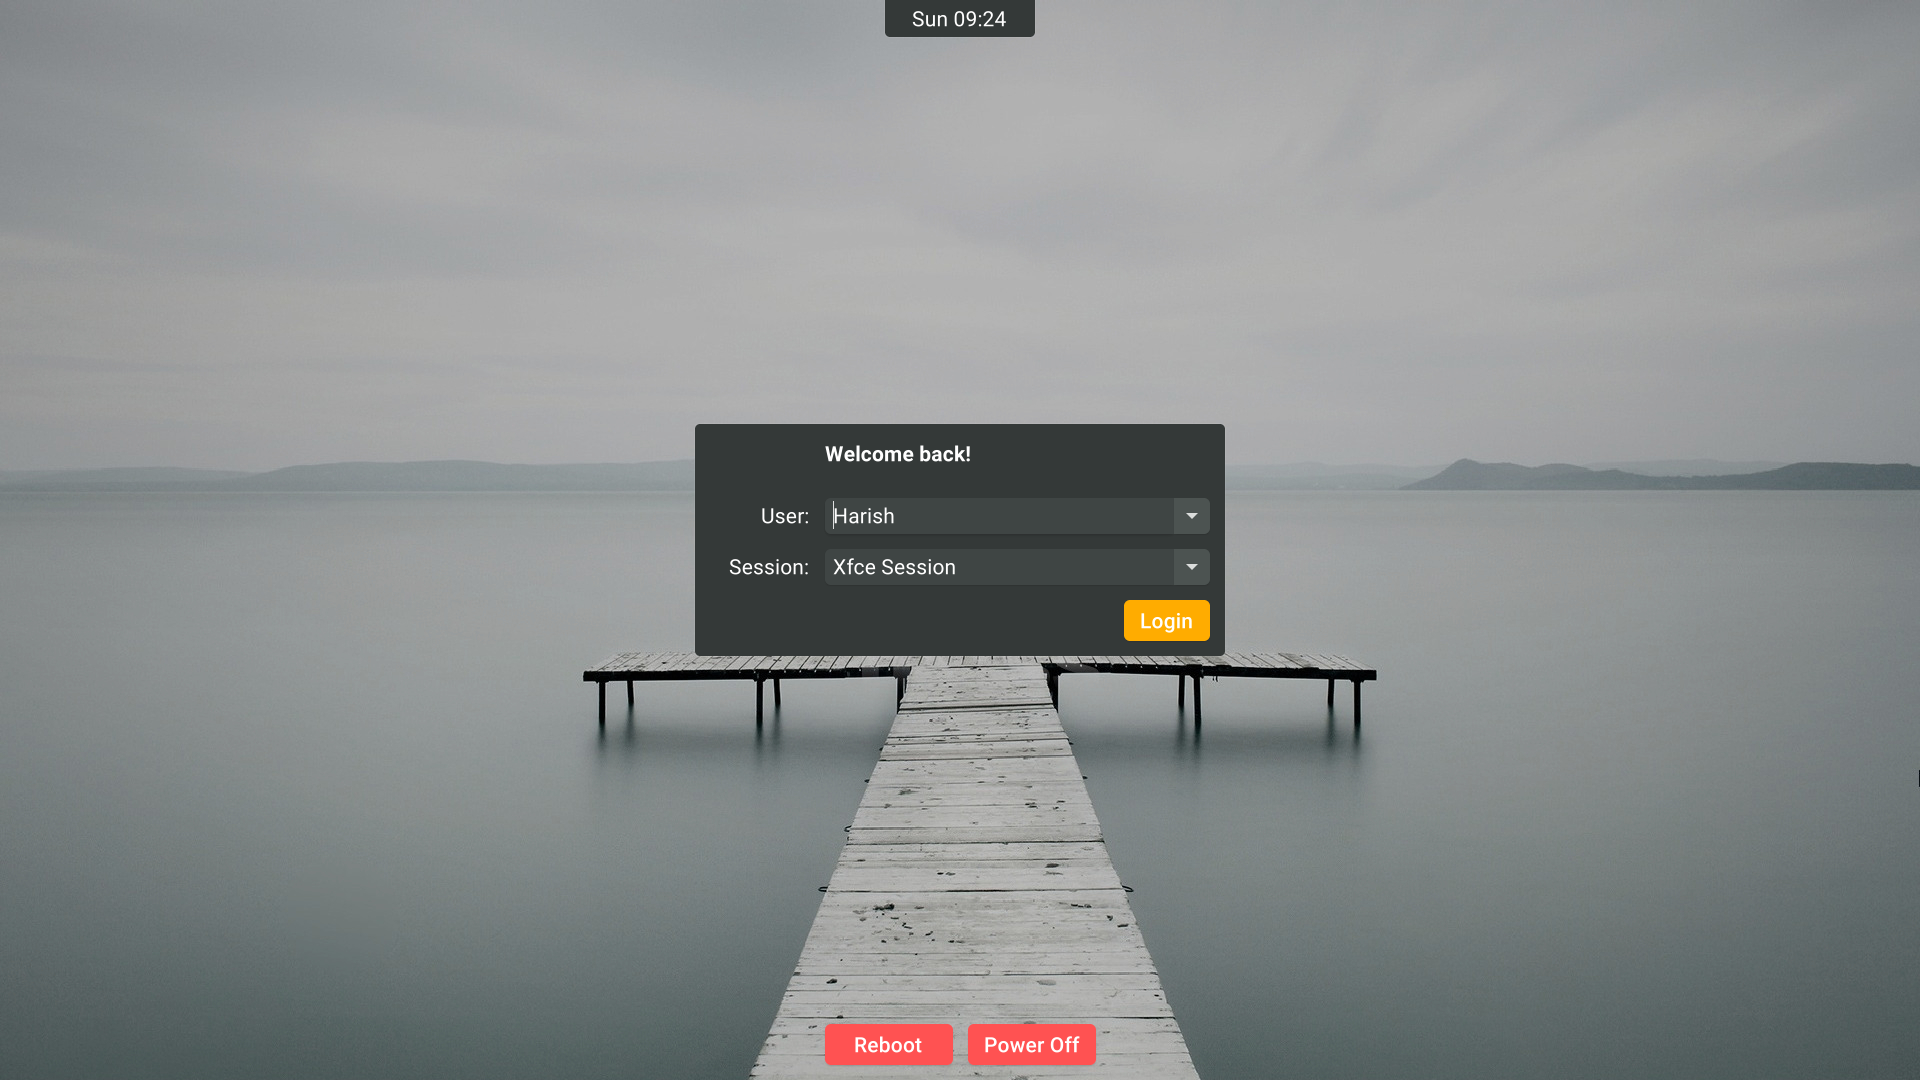
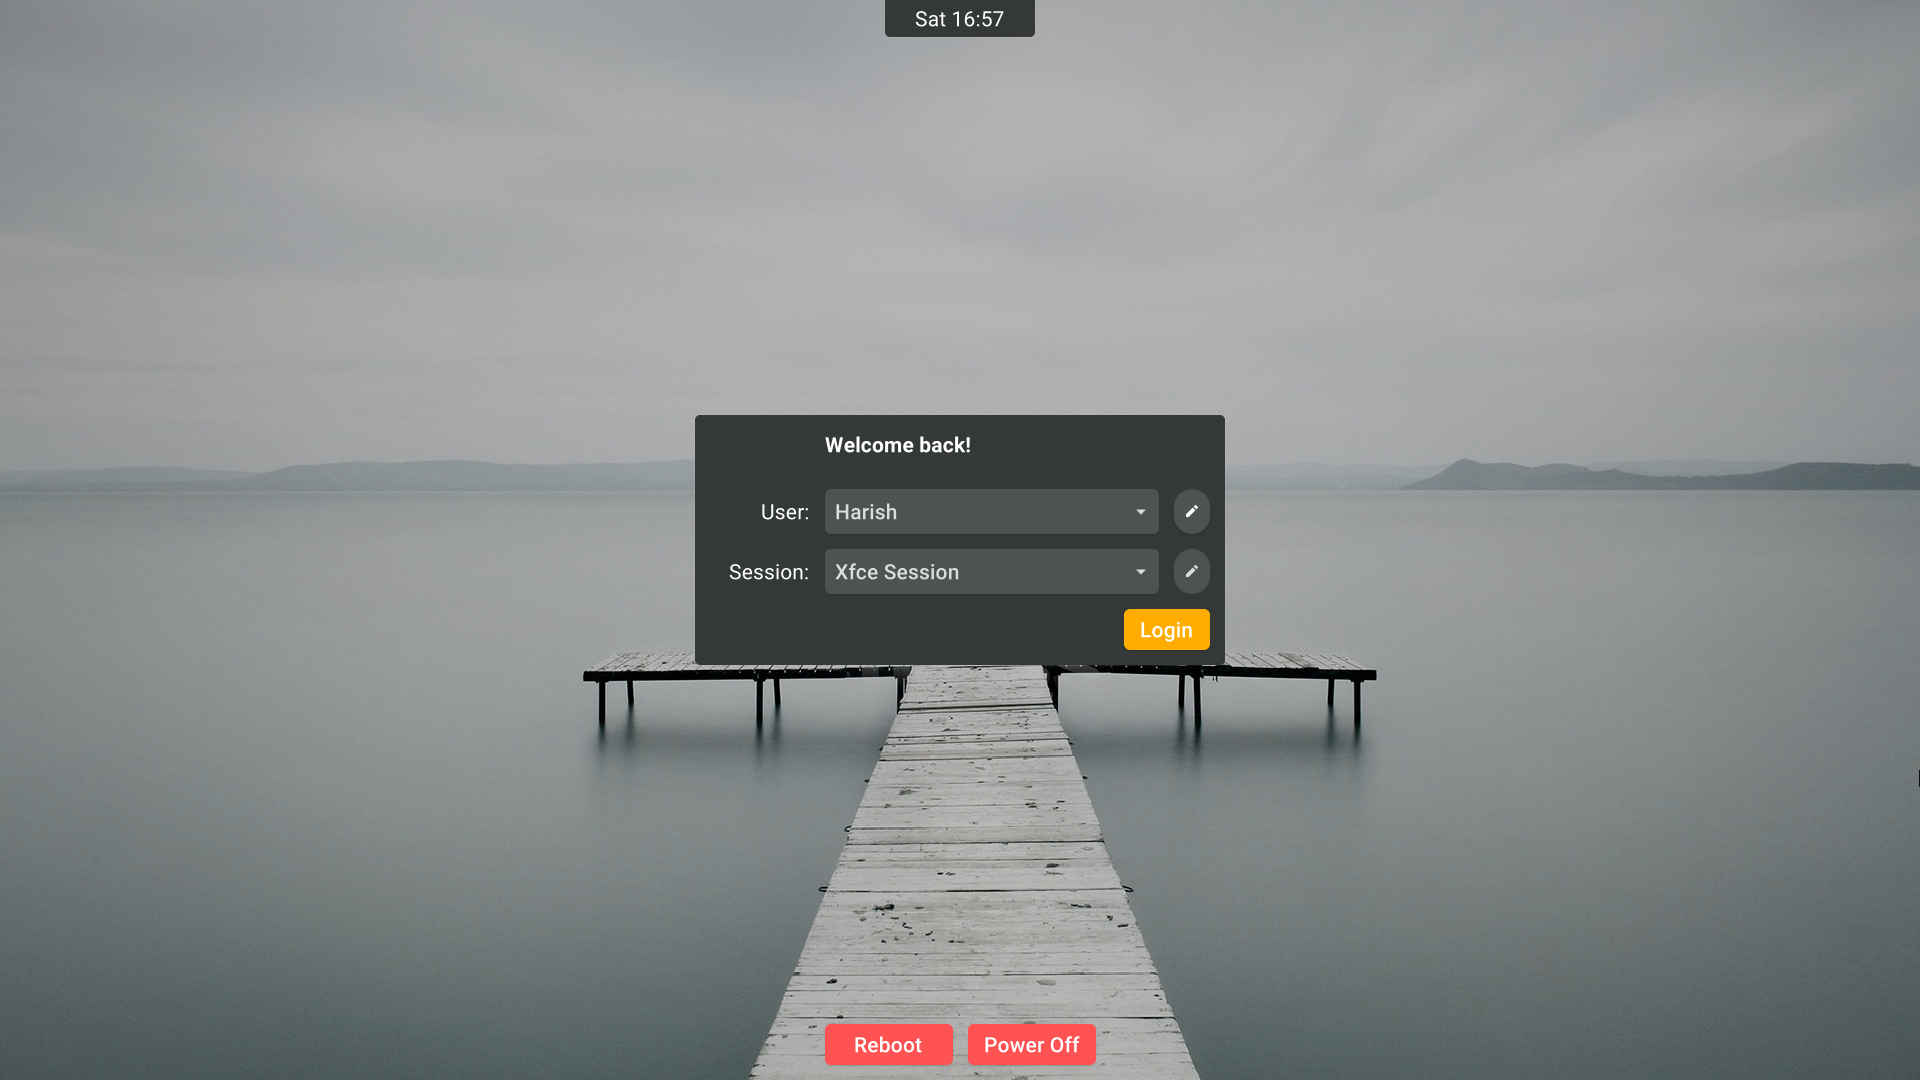
Change implementation of manual user/session entry
- Instead of allowing text entry within a ComboBoxText, use a
  ToggleButton that swaps it out for an Entry
- Add height request for the rows, since ComboBoxText and Entry use
  different heights
- Tooltips tell the user how the ToggleButtons work
- Update screenshot with new interface

diff --git a/src/gui/component.rs b/src/gui/component.rs
@@ -144,22 +144,58 @@ impl Component for Greeter {
                 },
                 #[template_child]
                 usernames_box {
-                    #[track(model.updates.changed(Updates::password_mode()))]
-                    set_sensitive: !model.updates.password_mode,
-                    connect_changed[sender, sessions_box] => move |this| sender.input(
+                    #[track(
+                        model.updates.changed(Updates::manual_user_mode())
+                        || model.updates.changed(Updates::password_mode())
+                    )]
+                    set_sensitive: !model.updates.manual_user_mode && !model.updates.password_mode,
+                    #[track(model.updates.changed(Updates::manual_user_mode()))]
+                    set_visible: !model.updates.manual_user_mode,
+                    connect_changed[
+                        sender, username_entry, sessions_box, session_entry
+                    ] => move |this| sender.input(
                         Self::Input::UserChanged(
-                            UserSessInfo::extract(this, &sessions_box)
+                            UserSessInfo::extract(this, &username_entry, &sessions_box, &session_entry)
                         )
                     ),
                 },
                 #[template_child]
+                username_entry {
+                    #[track(
+                        model.updates.changed(Updates::manual_user_mode())
+                        || model.updates.changed(Updates::password_mode())
+                    )]
+                    set_sensitive: model.updates.manual_user_mode && !model.updates.password_mode,
+                    #[track(model.updates.changed(Updates::manual_user_mode()))]
+                    set_visible: model.updates.manual_user_mode,
+                },
+                #[template_child]
                 sessions_box {
-                    #[track(model.updates.changed(Updates::password_mode()))]
-                    set_sensitive: !model.updates.password_mode,
-                    #[track(model.updates.changed(Updates::password_mode()))]
-                    set_visible: !model.updates.password_mode,
+                    #[track(
+                        model.updates.changed(Updates::manual_sess_mode())
+                        || model.updates.changed(Updates::password_mode())
+                    )]
+                    set_sensitive: !model.updates.manual_sess_mode && !model.updates.password_mode,
+                    #[track(
+                        model.updates.changed(Updates::manual_sess_mode())
+                        || model.updates.changed(Updates::password_mode())
+                    )]
+                    set_visible: !model.updates.manual_sess_mode && !model.updates.password_mode,
                     #[track(model.updates.changed(Updates::active_session_id()))]
                     set_active_id: model.updates.active_session_id.as_deref(),
+                },
+                #[template_child]
+                session_entry {
+                    #[track(
+                        model.updates.changed(Updates::manual_sess_mode())
+                        || model.updates.changed(Updates::password_mode())
+                    )]
+                    set_sensitive: model.updates.manual_sess_mode && !model.updates.password_mode,
+                    #[track(
+                        model.updates.changed(Updates::manual_sess_mode())
+                        || model.updates.changed(Updates::password_mode())
+                    )]
+                    set_visible: model.updates.manual_sess_mode && !model.updates.password_mode,
                 },
                 #[template_child]
                 password_label {
@@ -181,12 +217,30 @@ impl Component for Greeter {
                     grab_focus: (),
                     #[track(model.updates.changed(Updates::password()))]
                     set_text: &model.updates.password,
-                    connect_activate[sender, usernames_box, sessions_box] => move |this| {
+                    connect_activate[
+                        sender, usernames_box, username_entry, sessions_box, session_entry
+                    ] => move |this| {
                         sender.input(InputMsg::Login {
                             password: this.text().to_string(),
-                            info: UserSessInfo::extract(&usernames_box, &sessions_box),
+                            info: UserSessInfo::extract(
+                                &usernames_box, &username_entry, &sessions_box, &session_entry
+                            ),
                         })
                     }
+                },
+                #[template_child]
+                user_toggle {
+                    #[track(model.updates.changed(Updates::password_mode()))]
+                    set_sensitive: !model.updates.password_mode,
+                    connect_clicked => Self::Input::ToggleManualUser,
+                },
+                #[template_child]
+                sess_toggle {
+                    #[track(model.updates.changed(Updates::password_mode()))]
+                    set_sensitive: !model.updates.password_mode,
+                    #[track(model.updates.changed(Updates::password_mode()))]
+                    set_visible: !model.updates.password_mode,
+                    connect_clicked => Self::Input::ToggleManualSess,
                 },
                 #[template_child]
                 cancel_button {
@@ -204,11 +258,18 @@ impl Component for Greeter {
                     )]
                     grab_focus: (),
                     connect_clicked[
-                        sender, password_entry, usernames_box, sessions_box
+                        sender,
+                        password_entry,
+                        usernames_box,
+                        username_entry,
+                        sessions_box,
+                        session_entry,
                     ] => move |_| {
                         sender.input(InputMsg::Login {
                             password: password_entry.text().to_string(),
-                            info: UserSessInfo::extract(&usernames_box, &sessions_box),
+                            info: UserSessInfo::extract(
+                                &usernames_box, &username_entry, &sessions_box, &session_entry
+                            ),
                         })
                     }
                 },
@@ -256,6 +317,12 @@ impl Component for Greeter {
             }
             Self::Input::Cancel => self.cancel_click_handler(),
             Self::Input::UserChanged(info) => self.user_change_handler(&info),
+            Self::Input::ToggleManualUser => self
+                .updates
+                .set_manual_user_mode(!self.updates.manual_user_mode),
+            Self::Input::ToggleManualSess => self
+                .updates
+                .set_manual_sess_mode(!self.updates.manual_sess_mode),
             Self::Input::Reboot => Self::reboot_click_handler(&sender),
             Self::Input::PowerOff => Self::poweroff_click_handler(&sender),
         }

diff --git a/src/gui/model.rs b/src/gui/model.rs
@@ -32,6 +32,10 @@ pub(super) struct Updates {
     pub(super) message: String,
     /// Text in the password field
     pub(super) password: String,
+    /// Whether the username is being entered manually
+    pub(super) manual_user_mode: bool,
+    /// Whether the session is being entered manually
+    pub(super) manual_sess_mode: bool,
     /// Whether the password is being entered
     pub(super) password_mode: bool,
     /// ID of the active session
@@ -57,6 +61,8 @@ impl Greeter {
         let updates = Updates {
             message: DEFAULT_MSG.to_string(),
             password: String::new(),
+            manual_user_mode: false,
+            manual_sess_mode: false,
             password_mode: false,
             active_session_id: None,
             tracker: 0,
@@ -131,19 +137,17 @@ impl Greeter {
 
         // Before trying to create a session, check if the session command (if manually entered) is
         // valid.
-        if info.sess_id.is_none() {
-            if let Some(cmd) = &info.sess_text {
-                if shlex::split(cmd.as_str()).is_none() {
-                    // This must be an invalid command.
-                    self.display_error(
-                        sender,
-                        "Invalid session command",
-                        &format!("Invalid session command: {cmd}"),
-                    );
-                    return;
-                };
-                debug!("Manually entered session command is parsable");
+        if self.updates.manual_sess_mode {
+            if shlex::split(info.sess_text.as_str()).is_none() {
+                // This must be an invalid command.
+                self.display_error(
+                    sender,
+                    "Invalid session command",
+                    &format!("Invalid session command: {}", info.sess_text),
+                );
+                return;
             };
+            debug!("Manually entered session command is parsable");
         };
 
         info!("Creating session for user: {username}");
@@ -286,16 +290,17 @@ impl Greeter {
 
     /// Get the currently selected username.
     fn get_current_username(&self, info: &UserSessInfo) -> Option<String> {
-        // Get the currently selected user's ID, which should be their username.
-        if let Some(username) = &info.user_id {
+        if self.updates.manual_user_mode {
+            debug!(
+                "Retrieved username '{}' through manual entry",
+                info.user_text
+            );
+            Some(info.user_text.to_string())
+        } else if let Some(username) = &info.user_id {
+            // Get the currently selected user's ID, which should be their username.
             debug!("Retrieved username '{username}' from options");
             Some(username.to_string())
-        } else if let Some(username) = &info.user_text {
-            // In case of manual entry, the ID should be missing.
-            debug!("Retrieved username '{username}' through manual entry");
-            Some(username.to_string())
         } else {
-            // This shouldn't happen, since we have an entry within the usernames box.
             error!("No username entered");
             None
         }
@@ -307,8 +312,24 @@ impl Greeter {
         sender: &ComponentSender<Self>,
         info: &UserSessInfo,
     ) -> (Option<String>, Option<Vec<String>>) {
-        // Get the currently selected session.
-        if let Some(session) = &info.sess_id {
+        if self.updates.manual_sess_mode {
+            debug!(
+                "Retrieved session command '{}' through manual entry",
+                info.sess_text
+            );
+            if let Some(cmd) = shlex::split(info.sess_text.as_str()) {
+                (None, Some(cmd))
+            } else {
+                // This must be an invalid command.
+                self.display_error(
+                    sender,
+                    "Invalid session command",
+                    &format!("Invalid session command: {}", info.sess_text),
+                );
+                (None, None)
+            }
+        } else if let Some(session) = &info.sess_id {
+            // Get the currently selected session.
             debug!("Retrieved current session: {session}");
             if let Some(cmd) = self.sys_util.get_sessions().get(session.as_str()) {
                 (Some(session.to_string()), Some(cmd.clone()))
@@ -318,22 +339,7 @@ impl Greeter {
                 self.display_error(sender, &error_msg, &error_msg);
                 (None, None)
             }
-        } else if let Some(manual_cmd) = &info.sess_text {
-            // In case of manual entry, the ID should be missing.
-            debug!("Retrieved session command '{manual_cmd}' through manual entry",);
-            if let Some(cmd) = shlex::split(manual_cmd.as_str()) {
-                (None, Some(cmd))
-            } else {
-                // This must be an invalid command.
-                self.display_error(
-                    sender,
-                    "Invalid session command",
-                    &format!("Invalid session command: {manual_cmd}"),
-                );
-                (None, None)
-            }
         } else {
-            // This shouldn't happen, since we have an entry within the sessions box.
             let username = if let Some(username) = self.get_current_username(info) {
                 username
             } else {

diff --git a/src/gui/templates.rs b/src/gui/templates.rs
@@ -71,32 +71,63 @@ impl WidgetTemplate for Ui {
                     },
 
                     #[template]
-                    attach[0, 1, 1, 1] = &EntryLabel { set_label: "User:" },
+                    attach[0, 1, 1, 1] = &EntryLabel {
+                        set_label: "User:",
+                        set_height_request: 45,
+                    },
 
                     /// Label for the sessions widget
                     #[name = "session_label"]
                     #[template]
-                    attach[0, 2, 1, 1] = &EntryLabel { set_label: "Session:" },
+                    attach[0, 2, 1, 1] = &EntryLabel {
+                        set_label: "Session:",
+                        set_height_request: 45,
+                    },
 
                     /// Widget containing the usernames
                     #[name = "usernames_box"]
-                    attach[1, 1, 1, 1] = &gtk::ComboBoxText::with_entry(),
+                    attach[1, 1, 1, 1] = &gtk::ComboBoxText,
+
+                    /// Widget where the user enters the password
+                    #[name = "username_entry"]
+                    attach[1, 1, 1, 1] = &gtk::Entry,
 
                     /// Widget containing the sessions
                     #[name = "sessions_box"]
-                    attach[1, 2, 1, 1] = &gtk::ComboBoxText::with_entry(),
+                    attach[1, 2, 1, 1] = &gtk::ComboBoxText,
+
+                    /// Widget where the user enters the password
+                    #[name = "session_entry"]
+                    attach[1, 2, 1, 1] = &gtk::Entry,
 
                     /// Label for the password widget
                     #[name = "password_label"]
                     #[template]
-                    attach[0, 2, 1, 1] = &EntryLabel { set_label: "Password:" },
+                    attach[0, 2, 1, 1] = &EntryLabel {
+                        set_label: "Password:",
+                        set_height_request: 45,
+                    },
 
                     /// Widget where the user enters the password
                     #[name = "password_entry"]
                     attach[1, 2, 1, 1] = &gtk::PasswordEntry { set_show_peek_icon: true },
 
+                    /// Button to toggle manual user entry
+                    #[name = "user_toggle"]
+                    attach[2, 1, 1, 1] = &gtk::ToggleButton {
+                        set_icon_name: "document-edit-symbolic",
+                        set_tooltip_text: Some("Manually enter username"),
+                    },
+
+                    /// Button to toggle manual session entry
+                    #[name = "sess_toggle"]
+                    attach[2, 2, 1, 1] = &gtk::ToggleButton {
+                        set_icon_name: "document-edit-symbolic",
+                        set_tooltip_text: Some("Manually enter session command"),
+                    },
+
                     /// Collection of action buttons (eg. Login)
-                    attach[1, 3, 1, 1] = &gtk::Box {
+                    attach[1, 3, 2, 1] = &gtk::Box {
                         set_halign: gtk::Align::End,
                         set_spacing: 15,
 

diff --git a/src/gui/messages.rs b/src/gui/messages.rs
@@ -5,7 +5,7 @@
 //! Message definitions for communication between the view and the model
 use std::fmt::{Debug, Error as FmtError, Formatter};
 
-use relm4::gtk::{glib, prelude::*, ComboBoxText};
+use relm4::gtk::{glib, prelude::*, ComboBoxText, Entry};
 
 #[derive(Debug)]
 /// Info about the current user and chosen session
@@ -13,21 +13,26 @@ pub struct UserSessInfo {
     /// The ID for the currently chosen user
     pub(super) user_id: Option<glib::GString>,
     /// The entry text for the currently chosen user
-    pub(super) user_text: Option<glib::GString>,
+    pub(super) user_text: glib::GString,
     /// The ID for the currently chosen session
     pub(super) sess_id: Option<glib::GString>,
     /// The entry text for the currently chosen session
-    pub(super) sess_text: Option<glib::GString>,
+    pub(super) sess_text: glib::GString,
 }
 
 impl UserSessInfo {
     /// Extract session and user info from the relevant widgets.
-    pub(super) fn extract(usernames_box: &ComboBoxText, sessions_box: &ComboBoxText) -> Self {
+    pub(super) fn extract(
+        usernames_box: &ComboBoxText,
+        username_entry: &Entry,
+        sessions_box: &ComboBoxText,
+        session_entry: &Entry,
+    ) -> Self {
         Self {
             user_id: usernames_box.active_id(),
-            user_text: usernames_box.active_text(),
+            user_text: username_entry.text(),
             sess_id: sessions_box.active_id(),
-            sess_text: sessions_box.active_text(),
+            sess_text: session_entry.text(),
         }
     }
 }
@@ -43,6 +48,10 @@ pub enum InputMsg {
     Cancel,
     /// The current user was changed in the GUI.
     UserChanged(UserSessInfo),
+    /// Toggle manual entry of user.
+    ToggleManualUser,
+    /// Toggle manual entry of session.
+    ToggleManualSess,
     Reboot,
     PowerOff,
 }
@@ -57,6 +66,8 @@ impl Debug for InputMsg {
             }
             Self::Cancel => f.write_str("Cancel"),
             Self::UserChanged(info) => f.debug_tuple("UserChanged").field(info).finish(),
+            Self::ToggleManualUser => f.write_str("ToggleManualUser"),
+            Self::ToggleManualSess => f.write_str("ToggleManualSess"),
             Self::Reboot => f.write_str("Reboot"),
             Self::PowerOff => f.write_str("PowerOff"),
         }
